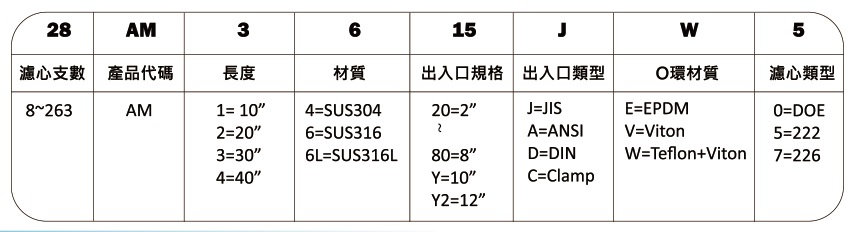
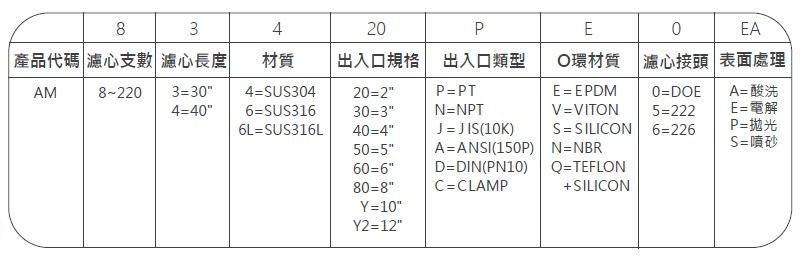
Update filters images

diff --git a/js/constant.js b/js/constant.js
@@ -123,7 +123,7 @@ define('constant', function(){
             "series": "ALS",
             "housing": "過濾器",
             "category": "不鏽鋼濾心機",
-            "images": 3,
+            "images": 4,
             "title": "單支裝",
             "subtitle": "濾心式過濾器",
             "spec": {
@@ -147,7 +147,7 @@ define('constant', function(){
             "series": "AHS",
             "housing": "過濾器",
             "category": "不鏽鋼濾心機",
-            "images": 1,
+            "images": 4,
             "title": "單支裝",
             "subtitle": "濾心式過濾器 - 高壓款",
             "spec": {
@@ -171,7 +171,7 @@ define('constant', function(){
             "series": "AF",
             "housing": "過濾器",
             "category": "不鏽鋼濾心機",
-            "images": 1,
+            "images": 4,
             "title": "單支裝",
             "subtitle": "濾心式水塔過濾器",
             "spec": {
@@ -195,7 +195,7 @@ define('constant', function(){
             "series": "AL",
             "housing": "過濾器",
             "category": "不鏽鋼濾心機",
-            "images": 1,
+            "images": 4,
             "title": "3~7支裝",
             "subtitle": "濾心式過濾器",
             "spec": {
@@ -261,7 +261,7 @@ define('constant', function(){
             "range": "RO前置過濾、PCW過濾、循環過濾、化學品製程、回收水過濾、飲料業",
             "modelImgs": 1,
             "componentImgs": 1,
-            "sizeImgs": 1
+            "sizeImgs": 2
         },
         "SGS": {
             "series": "SGS",
